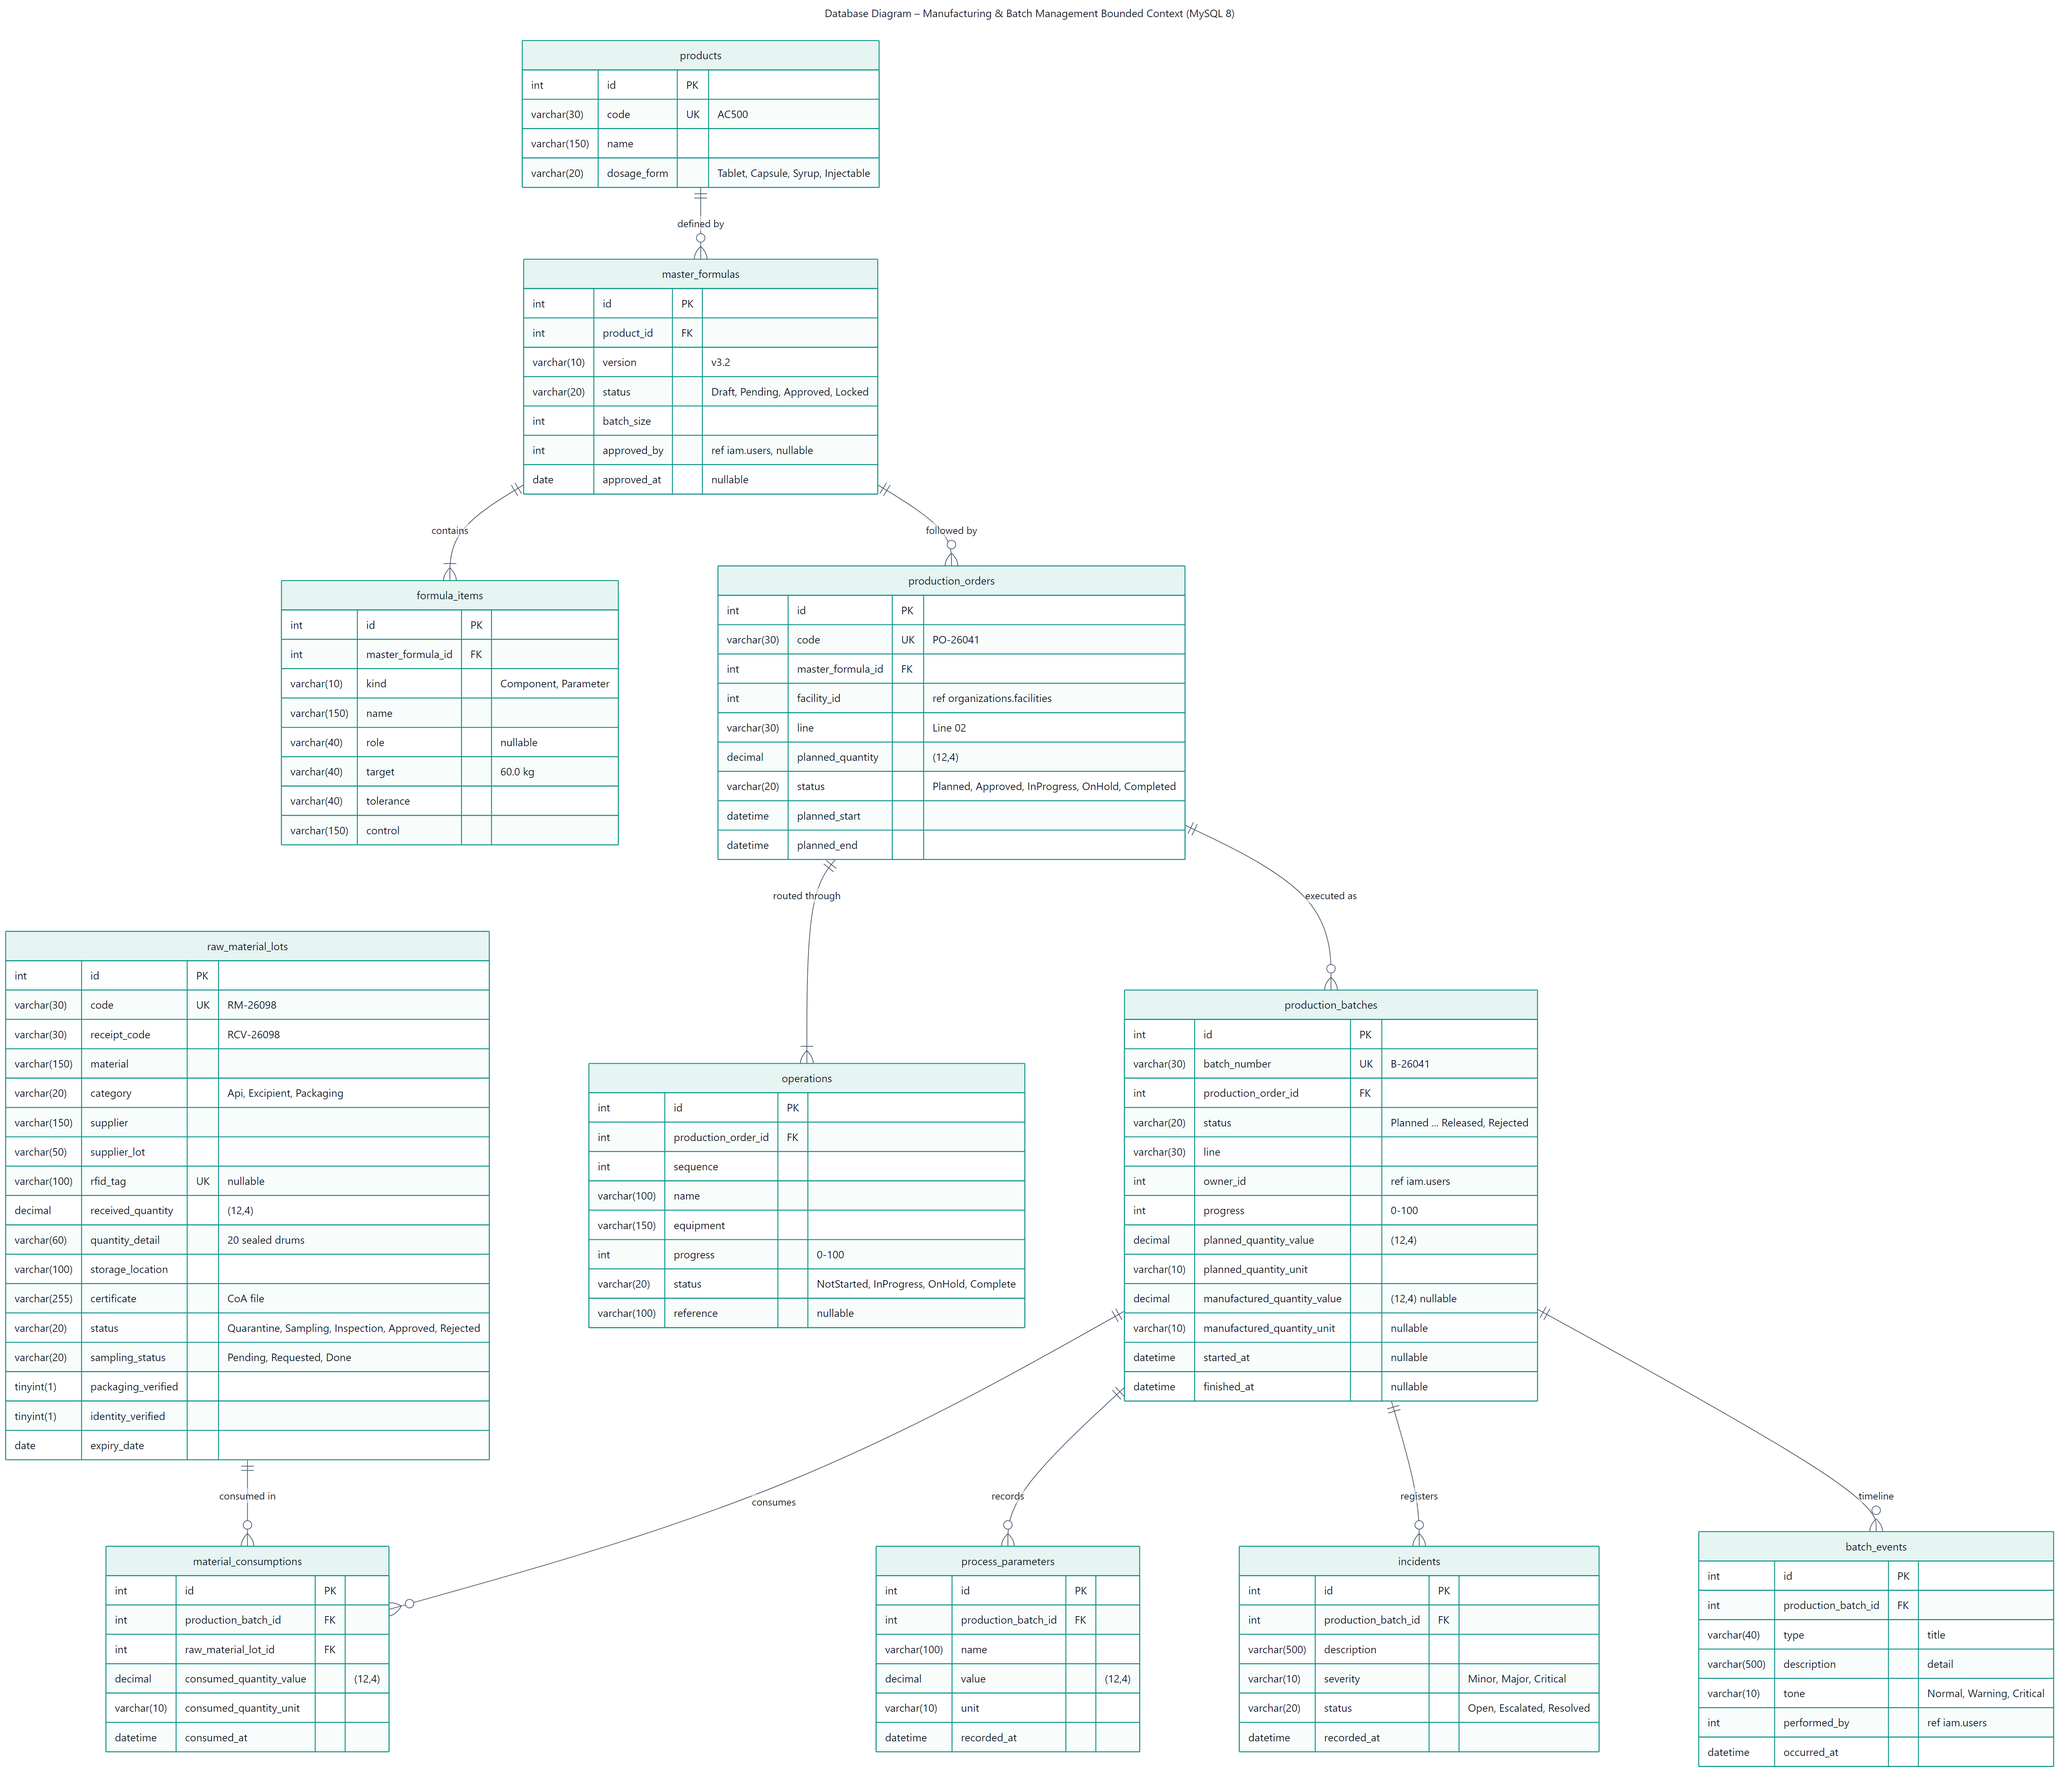
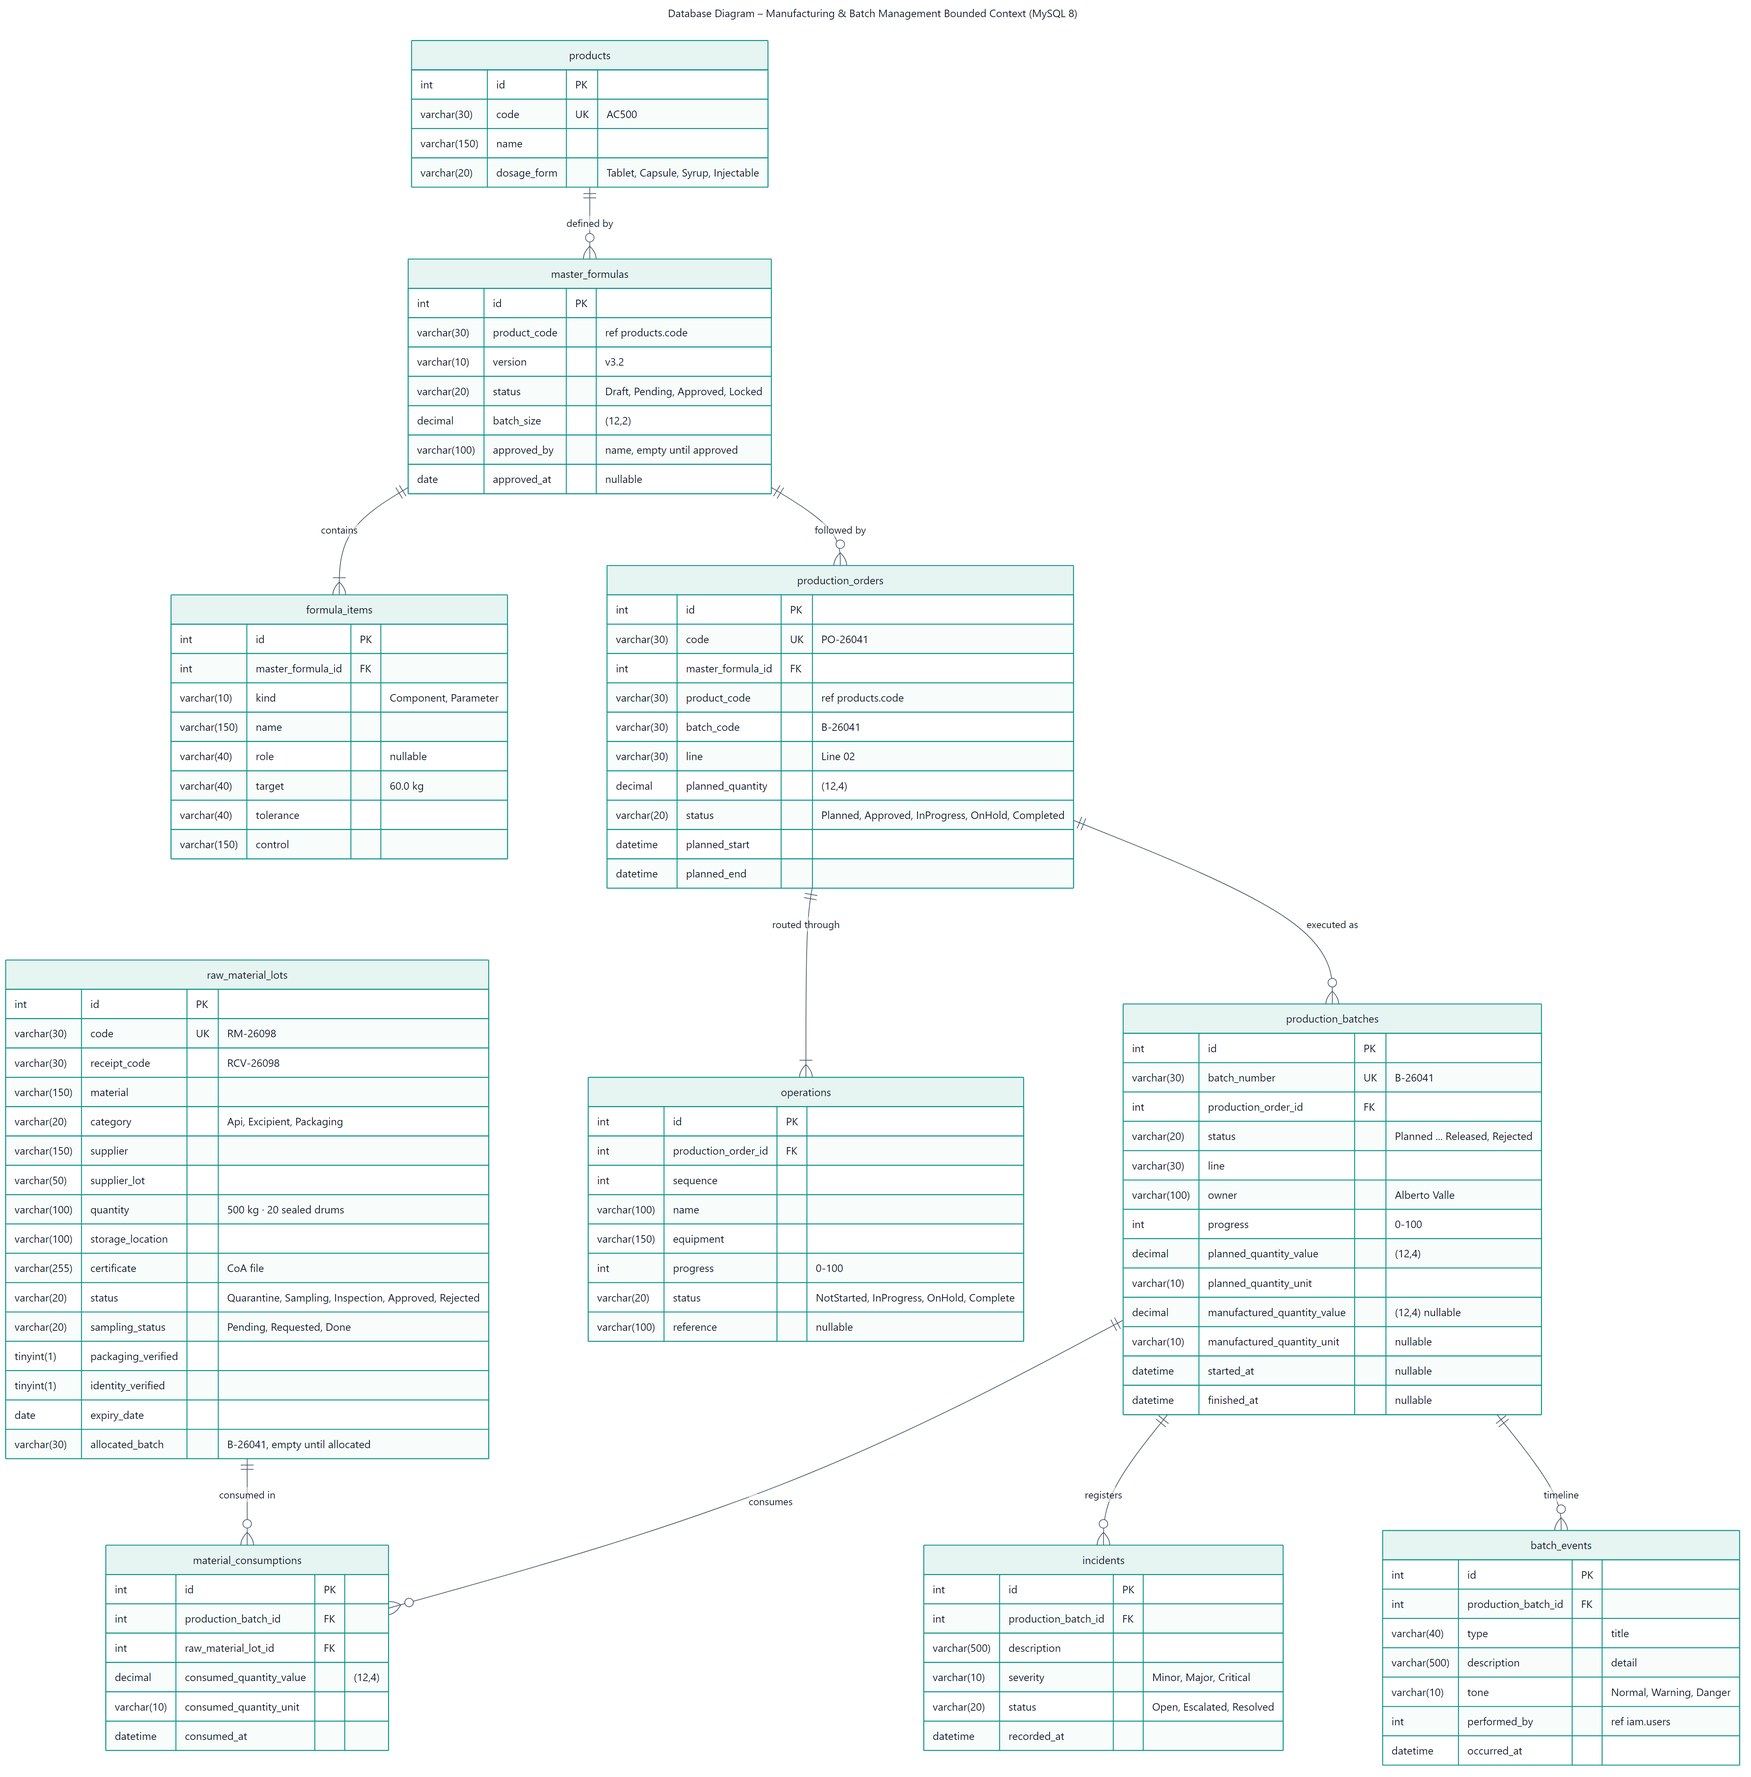
fix(diagrams): match manufacturing with the web app and the backend

diff --git a/docs/chapter4.md b/docs/chapter4.md
@@ -1264,7 +1264,7 @@ El diseño orientado a objetos traduce los aggregates del Design-Level EventStor
 
 ![Class Diagram - Subscriptions & Payments](../assets/img/chapter4/diagram-class/class-03-subscriptions.png)
 
-**Manufacturing & Batch Management.** `ProductionBatch` es el aggregate central del dominio: concentra el ciclo de vida del lote (`Planned` a `Released` o `Rejected`), sus consumos de insumos, parámetros de proceso, incidencias y su línea de tiempo (`BatchEvent`). `ProductionOrder` agrupa sus operaciones (`Operation`) con su avance; `MasterFormula` contiene los componentes y parámetros de la fórmula (`FormulaItem`); `RawMaterialLot` controla la recepción, el muestreo y el dictamen de cada lote de insumo, y `Product` completa el contexto.
+**Manufacturing & Batch Management.** `ProductionBatch` es el aggregate central del dominio: concentra el ciclo de vida del lote (`Planned` a `Released` o `Rejected`), su línea, responsable y avance, sus consumos de insumos, incidencias y su línea de tiempo (`BatchEvent`, con el color de cada entrada). Las lecturas de proceso de cada lote vienen de los sensores de IoT Monitoring. `ProductionOrder` agrupa sus operaciones (`Operation`) con su avance; `MasterFormula` contiene los componentes y parámetros de la fórmula (`FormulaItem`); `RawMaterialLot` controla la recepción, el muestreo y el dictamen de cada lote de insumo, y `Product` completa el contexto.
 
 ![Class Diagram - Manufacturing & Batch Management](../assets/img/chapter4/diagram-class/class-04-manufacturing.png)
 
@@ -1293,7 +1293,7 @@ Los diagramas se elaboraron con Mermaid (Diagram-as-Code), uno por bounded conte
 | IAM | users, roles, user_roles, invitations, electronic_signatures | User, Invitation, ElectronicSignature |
 | Organizations & Profiles | organizations, facilities, profiles, administrative_activities, contact_inquiries | Organization, Profile, AdministrativeActivity, ContactInquiry |
 | Subscriptions & Payments | plans, subscriptions, payments | Plan, Subscription |
-| Manufacturing & Batch Management | products, master_formulas, formula_items, raw_material_lots, production_orders, operations, production_batches, material_consumptions, process_parameters, incidents, batch_events | Product, MasterFormula, RawMaterialLot, ProductionOrder, ProductionBatch |
+| Manufacturing & Batch Management | products, master_formulas, formula_items, raw_material_lots, production_orders, operations, production_batches, material_consumptions, incidents, batch_events | Product, MasterFormula, RawMaterialLot, ProductionOrder, ProductionBatch |
 | IoT Monitoring | equipment, calibration_records, maintenance_records, sensors, readings, alerts | Equipment, Sensor, Reading, Alert |
 | Quality & Compliance | quality_documents, analytical_results, batch_releases, evidence, deviations, capa_plans, capa_actions, audits, audit_findings, audit_events, regulatory_reports, collaboration_tasks, task_comments, traceability_gaps | QualityDocument, AnalyticalResult, BatchRelease, Evidence, Deviation, CapaPlan, Audit, AuditEvent, RegulatoryReport, CollaborationTask, TaskComment, TraceabilityGap |
 
